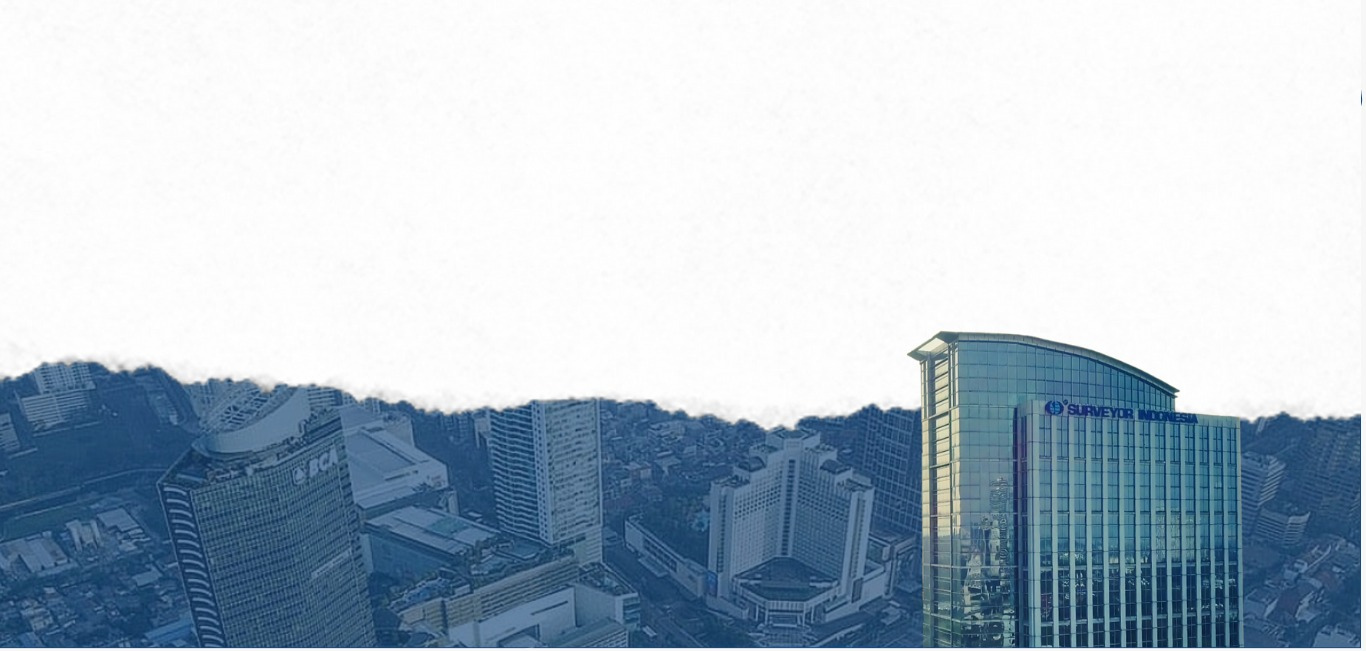
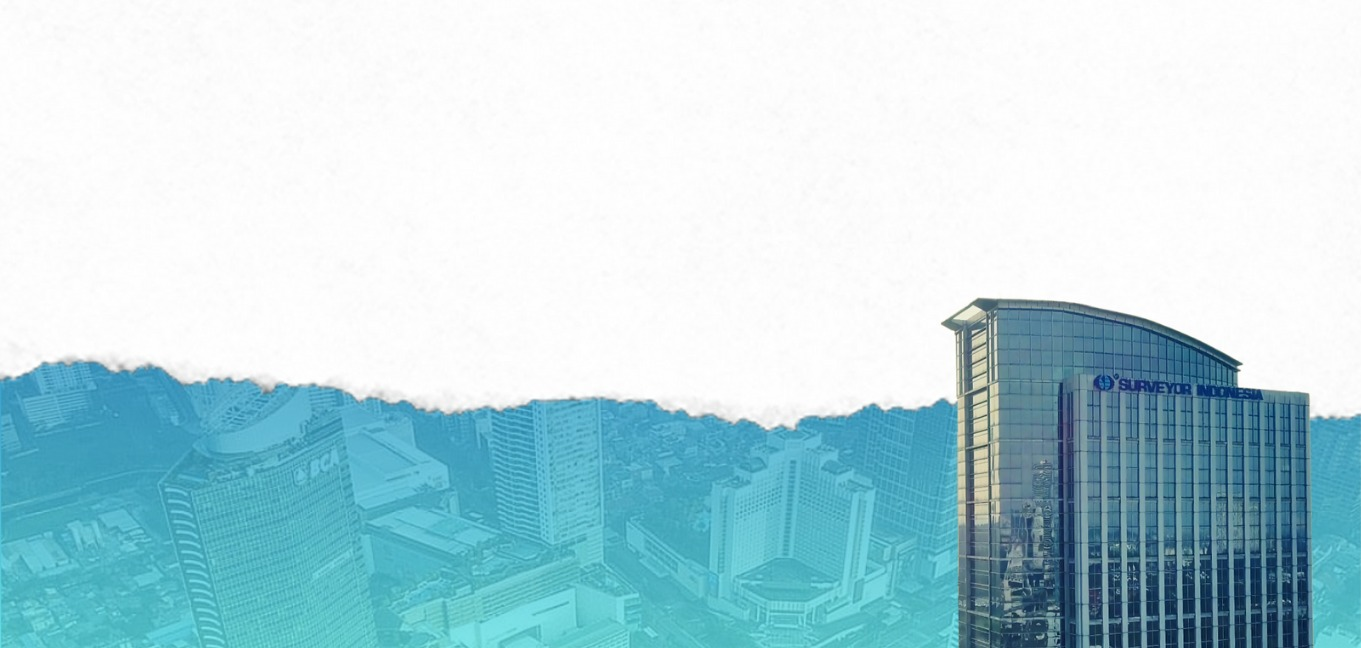
update

diff --git a/public/frontend/styles/main.css b/public/frontend/styles/main.css
@@ -41,7 +41,7 @@ header {
   position: relative;
   padding: 180px 0 165px;
   margin-top: -70px;
-  background-image: url("../images/header.png");
+  background-image: url("../images/header.jpg");
   background-size: cover;
 }
 header h1, header p {
